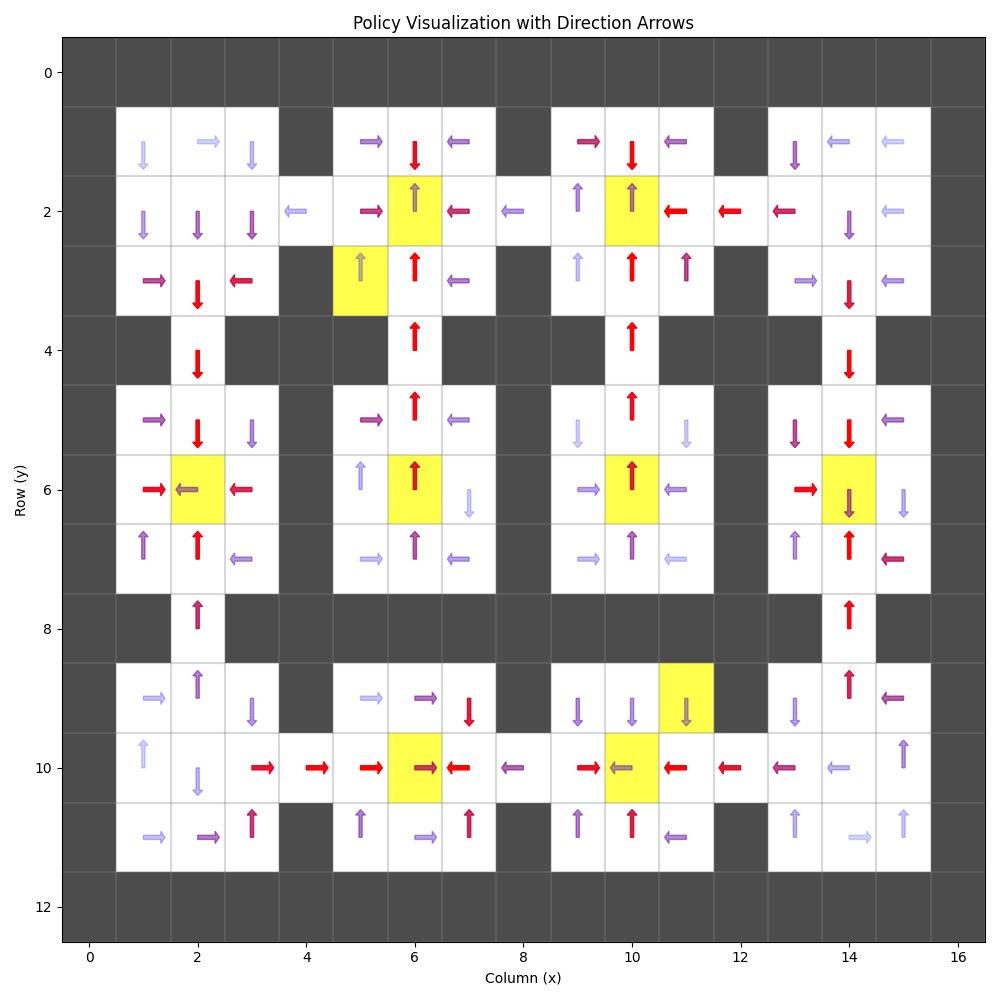
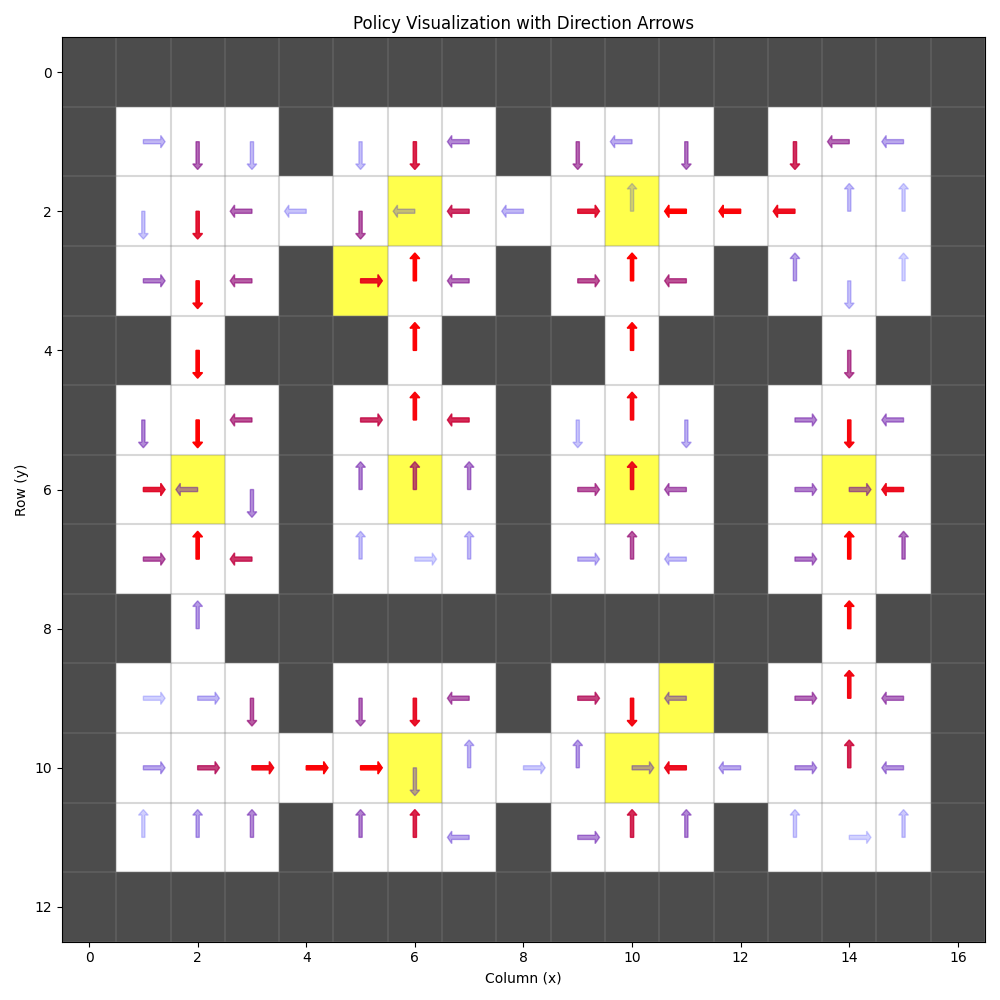
Add Viper extraction

diff --git a/project/run_viper_verification.py b/project/run_viper_verification.py
@@ -1,0 +1,143 @@
+import sys
+import os
+import torch
+import numpy as np
+
+# Ensure VIPER and project modules are accessible
+sys.path.append(os.path.join(os.getcwd(), "viper/python"))
+
+from reach_avoid_tabular import load_room, Room
+from boolean_task import GoalOrientedQLearning
+from viper_adapter import RoomGymWrapper, VIPERTeacher
+from viper.core.rl import train_dagger, get_rollout, test_policy
+from viper.core.dt import DTPolicy, save_dt_policy, load_dt_policy
+from smt_verifier import verify_subgoal_dt
+from atomic_task import animate_trace
+from sklearn.tree import export_text, plot_tree
+import matplotlib.pyplot as plt
+
+POLICY_SAVE_PATH = "project/static/policy"
+
+def main():
+    room_name = "office"
+    # Use 8 actions if the pre-trained policy supports it, or stick to 4 consistently
+    n_actions = 4
+    retrain = True
+    room = load_room("saved_disc", f"{room_name}.pt", n_actions)
+    
+    # Initialize the room's terrain before creating masks
+    room.start()
+
+    # Load Pre-trained Q-Policy
+    qmodel = GoalOrientedQLearning(room)
+    checkpoint = torch.load(f"project/static/policy/{room_name}.pt", weights_only=True)
+    qmodel.Q_subgoal = checkpoint["subgoal"]
+    qmodel.Q_joint = checkpoint["joint"] # Ensure joint policy is loaded if needed elsewhere
+
+    # Target goal_1 (subgoal index 0)
+    gr_idx = 0
+    goal_mask = room.goals["goal_1"]
+    obstacle_mask = (room.terrain == 0)
+    
+    env = RoomGymWrapper(room, goal_mask, obstacle_mask)
+    teacher = VIPERTeacher(qmodel, gr_idx)
+    student = DTPolicy(max_depth=10) # Increased depth for complex office room
+    
+    dt_filename = f"extracted_dt_{room_name}_goal{gr_idx}.pk"
+    full_path = os.path.join(POLICY_SAVE_PATH, dt_filename)
+
+    if os.path.exists(full_path) and not retrain:
+        print(f"Loading existing policy from {full_path}...")
+        best_dt = load_dt_policy(POLICY_SAVE_PATH, dt_filename)
+    else:
+        # VIPER DAgger Extraction: Mimic tabular Q-values with a Decision Tree
+        print("Starting VIPER extraction...")
+        best_dt = train_dagger(env, teacher, student, lambda x: x, 
+                              max_iters=100, n_batch_rollouts=10000, max_samples=500000, 
+                              train_frac=0.8, is_reweight=True, n_test_rollouts=10)
+        
+        print(f"Saving extracted policy to {full_path}...")
+        save_dt_policy(best_dt, POLICY_SAVE_PATH, dt_filename)
+
+    print("\n--- Extracted Decision Tree Policy ---")
+    print(export_text(best_dt.tree, feature_names=["row", "col"]))
+    
+    # Exhaustive testing from every valid cell
+    print("\n--- Running Exhaustive Grid Testing ---")
+    test_results = test_policy_exhaustive(env, best_dt, horizon=100)
+    # Visualize pass/fail distribution
+    room.draw_policy(torch.zeros(room.shape + (room.n_actions,)), mask=(torch.tensor(test_results) == 1), fn="exhaustive_test_map")
+
+    # Visualize the extracted decision tree policy
+    print("\n--- Visualizing Decision Tree Policy ---")
+    visualize_dt_policy(best_dt, room, goal_mask, f"dt_policy_{room_name}_goal{gr_idx}")
+
+    # SMT Formal Verification
+    goal_coords = torch.nonzero(goal_mask).tolist()
+    print(goal_coords)
+    obs_coords = torch.nonzero(obstacle_mask).tolist()
+    # obs_coords = []
+    print("Obstacle coordinates:", obs_coords)
+    start_pos = (11, 15)  # Use a starting point consistent with your experiments
+    
+    verify_subgoal_dt(best_dt, room.shape, start_pos, goal_coords, obs_coords, room.n_actions, horizon=50)
+
+    # Generate and save rollout animation
+    print("\n--- Generating Rollout Animation ---")
+    trace = get_rollout(env, best_dt, False)
+    trace_points = np.array([step[0] for step in trace])
+    print(trace_points)
+    # obstacle_mask is used as the avoid_region for the visualization
+    animate_trace(obstacle_mask, goal_mask, trace_points)
+    print("Animation saved to project/static/training/trace.gif")
+
+def test_policy_exhaustive(env: RoomGymWrapper, policy: DTPolicy, horizon: int = 100):
+    """Tests the policy from every non-obstacle starting cell in the grid."""
+    room = env.unwrapped
+    h, w = room.shape
+    results = np.zeros((h, w), dtype=int) # 0: Untestable (Wall), 1: Success, -1: Failed
+    
+    traversable_cells = torch.nonzero(room.terrain > 0).tolist()
+    success_count = 0
+    
+    for r, c in traversable_cells:
+        # Initialize environment at this specific location
+        obs = room.start(start_state=np.array([r, c]))
+        done = False
+        steps = 0
+        reached_goal = False
+        
+        while not done and steps < horizon:
+            # Predict using the Decision Tree (wrapped in a batch)
+            action = policy.predict(np.array([obs]))[0]
+            
+            # Take step
+            obs, reward, done, info = env.step(action)
+            
+            if env.goal_mask[tuple(obs)]:
+                reached_goal = True
+                done = True
+            elif env.obstacle_mask[tuple(obs)] or info.get("label") == 0:
+                done = True # Hit obstacle or boundary
+                
+            steps += 1
+            
+        results[r, c] = 1 if reached_goal else -1
+        if reached_goal: success_count += 1
+            
+    total_testable = len(traversable_cells)
+    print(f"Exhaustive Test Summary: {success_count}/{total_testable} ({success_count/total_testable:.2%}) success rate.")
+    return results
+
+def visualize_dt_policy(dt_policy: DTPolicy, room: Room, goal_mask: torch.Tensor, filename: str):
+    """Generates a Q-value-like tensor from a DTPolicy for visualization."""
+    q_values_for_viz = torch.zeros(room.shape + (room.n_actions,))
+    for r in range(room.shape[0]):
+        for c in range(room.shape[1]):
+            state = np.array([[r, c]])
+            action = dt_policy.predict(state)[0]
+            q_values_for_viz[r, c, action] = 1.0  # Mark the chosen action with a high value
+    room.draw_policy(q_values_for_viz, mask=goal_mask, fn=filename)
+
+if __name__ == "__main__":
+    main()

diff --git a/project/smt_verifier.py b/project/smt_verifier.py
@@ -1,0 +1,104 @@
+from z3 import *
+import numpy as np
+
+def tree_to_z3(clf, features, node_id=0):
+    """Recursively converts a sklearn tree into Z3 logic."""
+    tree_ = clf.tree_
+    if tree_.feature[node_id] != -2:  # Decision node
+        feature_idx = tree_.feature[node_id]
+        threshold = tree_.threshold[node_id]
+        left = tree_to_z3(clf, features, tree_.children_left[node_id])
+        right = tree_to_z3(clf, features, tree_.children_right[node_id])
+        return If(features[feature_idx] <= threshold, left, right)
+    else:
+        # Leaf node: return the predicted class
+        class_idx = np.argmax(tree_.value[node_id][0])
+        return int(clf.classes_[class_idx])
+
+def room_step_dynamics(x, y, action, x_next, y_next, shape, n_actions):
+    """Encodes the action map from Room.action_map into Z3 logic based on n_actions."""
+    h, w = shape
+    
+    # Action vectors based on Room.action_map
+    # 0:N(-1,0), 1:E(0,1), 2:S(1,0), 3:W(0,-1), 4:NE(-1,1), 5:SE(1,1), 6:SW(1,-1), 7:NW(-1,-1)
+    
+    def get_dx(a):
+        return If(Or(a == 0, a == 4, a == 7), -1, 
+               If(Or(a == 2, a == 5, a == 6), 1, 0))
+    
+    def get_dy(a):
+        return If(Or(a == 1, a == 4, a == 5), 1, 
+               If(Or(a == 3, a == 6, a == 7), -1, 0))
+
+    dx = get_dx(action)
+    dy = get_dy(action)
+    
+    potential_x = x + dx
+    potential_y = y + dy
+    
+    # Check boundaries (Room.step behavior: stay put if out of range)
+    out_of_range = Or(potential_x < 0, potential_x >= h, 
+                      potential_y < 0, potential_y >= w)
+    
+    # Note: Obstacles are handled in the DFA transition (stay put/violate) 
+    # to match the environment's reach-avoid logic.
+    
+    if n_actions == 4:
+        # Only allow actions 0, 1, 2, 3
+        return And(action >= 0, action < 4,
+                   x_next == If(out_of_range, x, potential_x),
+                   y_next == If(out_of_range, y, potential_y))
+    elif n_actions == 8:
+        return And(action >= 0, action < 8,
+                   x_next == If(out_of_range, x, potential_x),
+                   y_next == If(out_of_range, y, potential_y))
+    else:
+        return False # This will make the solver unsat if this path is taken
+
+def verify_subgoal_dt(dt_policy, room_shape, start_pos, goal_coords, obstacle_coords, n_actions, horizon=20):
+    """Verifies that the DT policy reaches the goal without hitting obstacles."""
+    solver = Solver()
+    clf = dt_policy.tree
+    
+    X = [Int(f'x_{t}') for t in range(horizon + 1)]
+    Y = [Int(f'y_{t}') for t in range(horizon + 1)]
+    # DFA state tracker: 0=searching, 1=success, -1=violation
+    Q = [Int(f'q_{t}') for t in range(horizon + 1)] 
+    
+    # Constraints: Initial State and Grid Bounds
+    solver.add(X[0] == start_pos[0], Y[0] == start_pos[1], Q[0] == 0)
+    for t in range(horizon + 1):
+        solver.add(X[t] >= 0, X[t] < room_shape[0], Y[t] >= 0, Y[t] < room_shape[1])
+
+    for t in range(horizon):
+        action = tree_to_z3(clf, [X[t], Y[t]])
+        
+        # Apply Dynamics
+        solver.add(room_step_dynamics(X[t], Y[t], action, X[t+1], Y[t+1], room_shape, n_actions))
+        
+        # Evaluate Regions
+        is_goal = Or([And(X[t+1] == g[0], Y[t+1] == g[1]) for g in goal_coords])
+        is_obs  = Or([And(X[t+1] == o[0], Y[t+1] == o[1]) for o in obstacle_coords])
+        
+        # DFA Transitions for F(Goal) & G(!Obstacle)
+        dfa_trans = If(is_obs, Q[t+1] == -1,
+                    If(And(Q[t] == 0, is_goal), Q[t+1] == 1,
+                    Q[t+1] == Q[t]))
+        solver.add(dfa_trans)
+
+    # Look for a violation: either hit an obstacle or failed to reach the goal by the end
+    violation = Or(
+        Or([Q[t] == -1 for t in range(horizon + 1)]),
+        Q[horizon] != 1
+    )
+    solver.add(violation)
+
+    if solver.check() == sat:
+        print("❌ Specification Violated! Counter-example path:")
+        m = solver.model()
+        for t in range(horizon + 1):
+            print(f"t={t}: ({m[X[t]]}, {m[Y[t]]}) DFA_State={m[Q[t]]}")
+        return False
+    else:
+        print("✅ Policy Verified against Specification!")
+        return True

diff --git a/project/viper_adapter.py b/project/viper_adapter.py
@@ -1,0 +1,60 @@
+import numpy as np
+import torch
+from reach_avoid_tabular import Room
+from boolean_task import GoalOrientedQLearning
+
+class RoomGymWrapper:
+    """Wraps the custom Room environment to follow the OpenAI Gym interface used by VIPER."""
+    def __init__(self, room: Room, goal_mask: torch.Tensor, obstacle_mask: torch.Tensor, max_steps: int = 500):
+        self.room = room
+        self.goal_mask = goal_mask
+        self.obstacle_mask = obstacle_mask
+        self.unwrapped = room 
+        self.max_steps = max_steps
+        self.curr_step = 0
+
+    def reset(self):
+        # Room.start returns the initial location as np.ndarray
+        self.curr_step = 0
+        return self.room.start()
+
+    def step(self, action):
+        self.curr_step += 1
+        # Room.step returns (new_loc, label)
+        new_loc, label = self.room.step(action)
+        obs = np.array(new_loc)
+        
+        # Calculate reward and termination for a specific reach-avoid subgoal
+        done = False
+        reward = 0.0
+        
+        if self.goal_mask[tuple(new_loc)]:
+            reward = 100.0
+            done = True
+        elif self.obstacle_mask[tuple(new_loc)] or label == 0:
+            reward = -10.0
+            done = True
+        elif self.curr_step >= self.max_steps:
+            done = True
+            
+        return obs, reward, done, {"label": label}
+
+    def render(self):
+        pass
+
+class VIPERTeacher:
+    """Wraps GoalOrientedQLearning to provide the batched predict/predict_q methods for DAgger."""
+    def __init__(self, qmodel: GoalOrientedQLearning, gr_index: int):
+        self.qmodel = qmodel
+        self.gr = gr_index
+
+    def predict(self, obss):
+        # obss is (N, state_dim)
+        # Ensure select_action only picks from valid actions in the wrapped room
+        return np.array([self.qmodel.select_action(self.qmodel.Q_subgoal, 
+                         obs.astype(int), self.gr) for obs in obss])
+
+    def predict_q(self, obss):
+        # Returns Q values for all actions for each state
+        # Slice the Q-table to only return the actions available to the room
+        return np.array([self.qmodel.Q_subgoal[tuple(obs.astype(int)) + (self.gr,)][:self.qmodel.env.n_actions].numpy() for obs in obss])

diff --git a/project/atomic_task.py b/project/atomic_task.py
@@ -262,7 +262,7 @@ def get_composed_policy(qmodel:GoalOrientedBase, goal, condition, policy, safe_p
 if __name__ == "__main__":
     print("HELLO")
     elk_name = "office"
-    pretrained = True
+    pretrained = False
     room = load_room("saved_disc", f"{elk_name}.pt", 4)
     room.start()
     starting_region = None
@@ -277,7 +277,7 @@ if __name__ == "__main__":
         qmodel.Q_subgoal = policy["subgoal"]
     else:
         subgoal, joint = qmodel.train_episodes(num_episodes=85, num_iterations=4, max_steps_per_episode=150)
-        # qmodel.plot_training_results(subgoal, joint, elk_name)
+        qmodel.plot_training_results(subgoal, joint, elk_name)
         torch.save({"joint": qmodel.Q_joint, "subgoal": qmodel.Q_subgoal}, f"project/static/policy/{elk_name}.pt")
     
     composed_policy, policy, safe_policy = task.policy_composition(qmodel)

diff --git a/project/reach_avoid_tabular.py b/project/reach_avoid_tabular.py
@@ -45,7 +45,6 @@ class Room:
             loc = random.choice(region)
         else:
             loc = random.choice(self._avail_locs)
-
         self.loc = loc
         self._trace = [self.loc]
         return self.loc
@@ -216,6 +215,6 @@ def load_room(mode, name, n_actions=8):
 if __name__ == "__main__":
     room = load_room("saved_cont", "road.pt")
     room.start(start_state=[1,2])
-    room.visual()
+    # room.visual()
 
 

diff --git a/viper/python/viper/core/rl.py b/viper/python/viper/core/rl.py
@@ -35,7 +35,6 @@ def get_rollout(env, policy, render):
 
         # Update (and remove LazyFrames)
         obs = np.array(next_obs)
-
     return rollout
 
 def get_rollouts(env, policy, render, n_batch_rollouts):